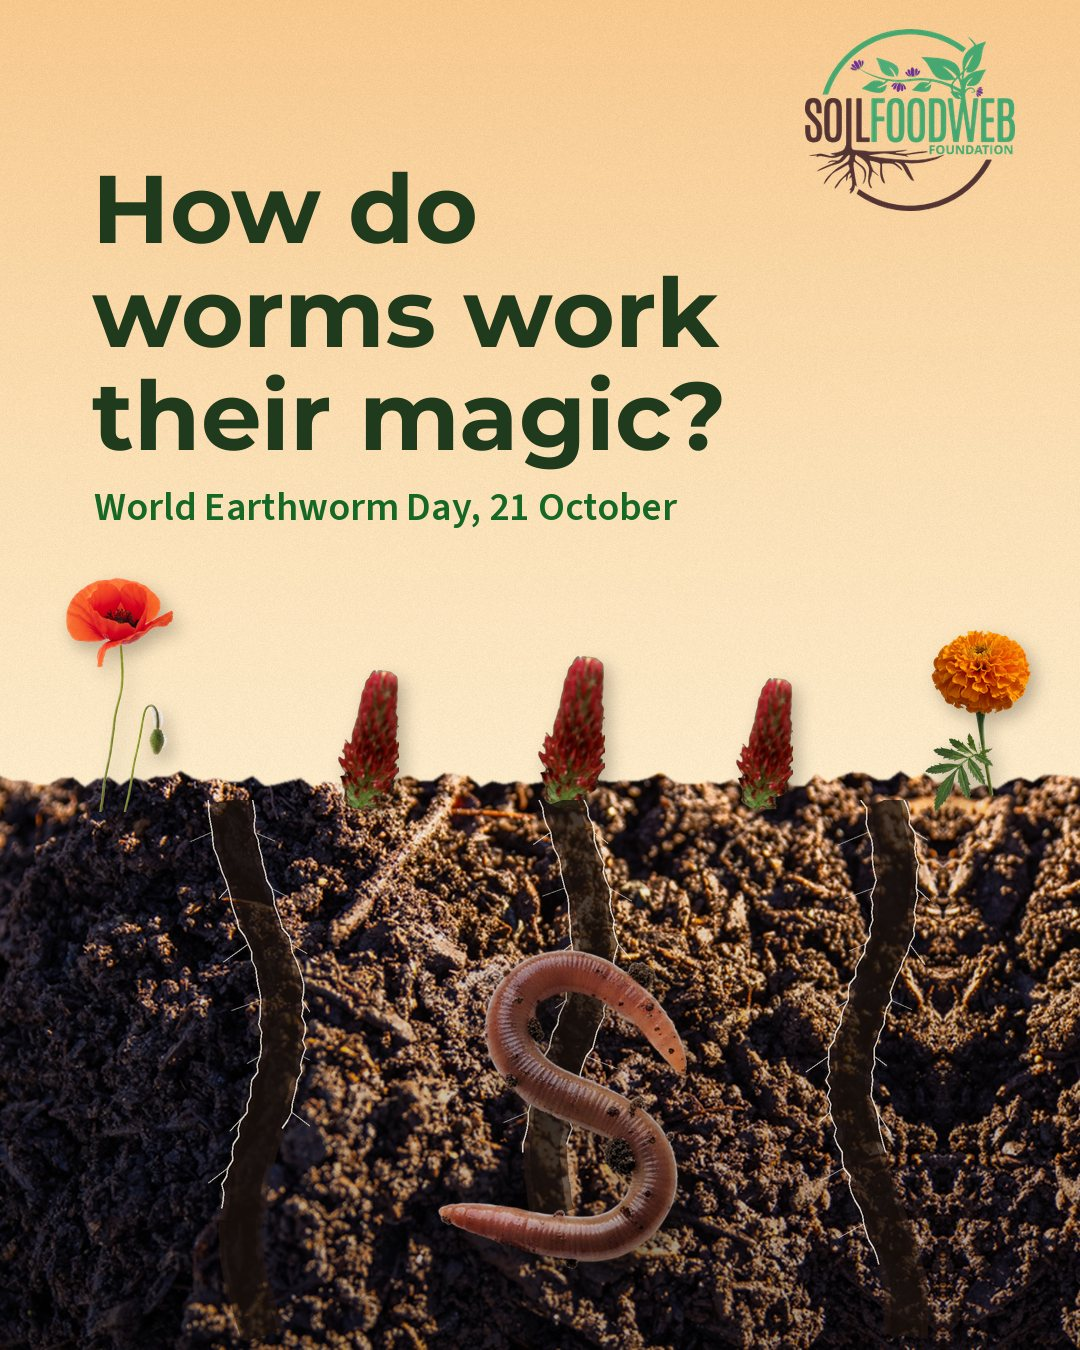
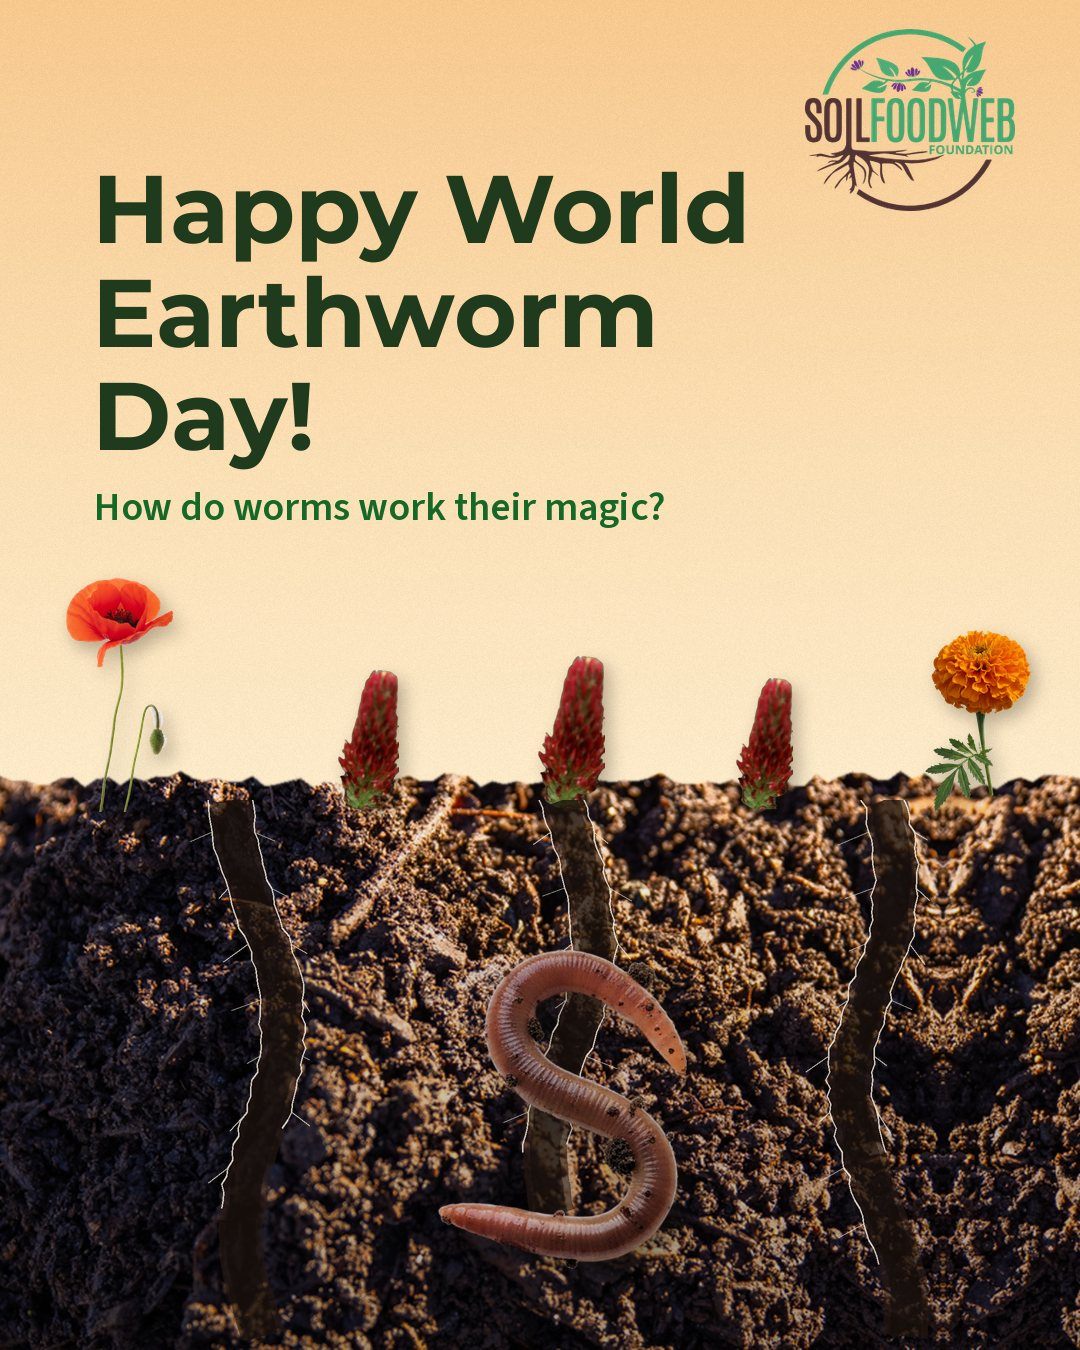
Wormhole: World Earthworm Day cover leads with the celebration
Claude-Session: https://claude.ai/code/session_01QZnNNxz3UXnFefobAaUWFn

Changed region(s): [[0.0917, 0.1244, 0.7028, 0.4044]]

diff --git a/tools/wormhole-visuals/p08_earthworm.py b/tools/wormhole-visuals/p08_earthworm.py
@@ -115,7 +115,7 @@ def p08(d):
     d.put(6, "mushrooms", soil("mushrooms", w=200), 760, SOIL_TOP - 70)
 
     texts = [
-        ("How do worms work their magic?", "World Earthworm Day, 21 October"),
+        ("Happy World Earthworm Day!", "How do worms work their magic?"),
         ("Anecic earthworms dig vertical burrows that can reach 1 to 2 meters deep to break up compaction.", None),
         ("They spread microbes around as they move by lining the walls with mucus and casts, rich in nutrients and microbes.", None),
         ("Their channels let rain soak in fast without causing the ground to go anaerobic.", None),
